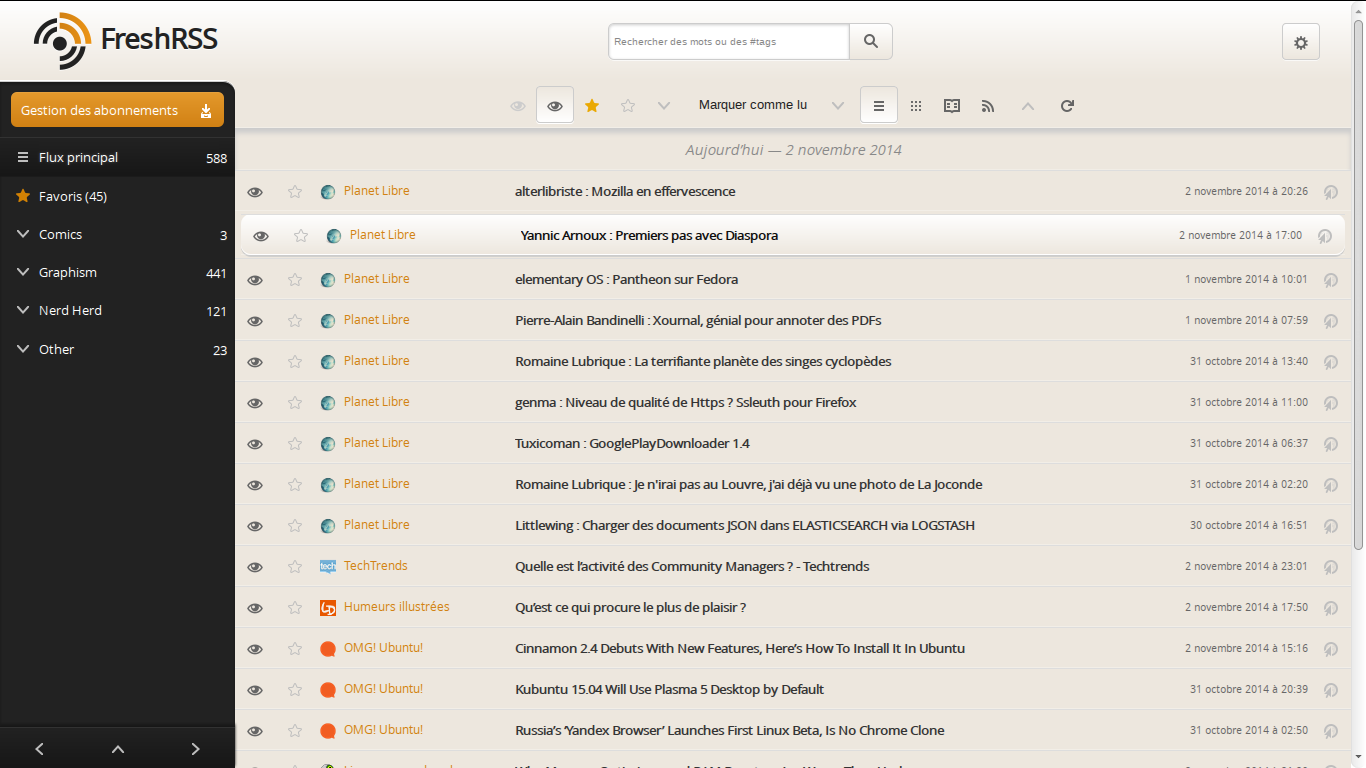
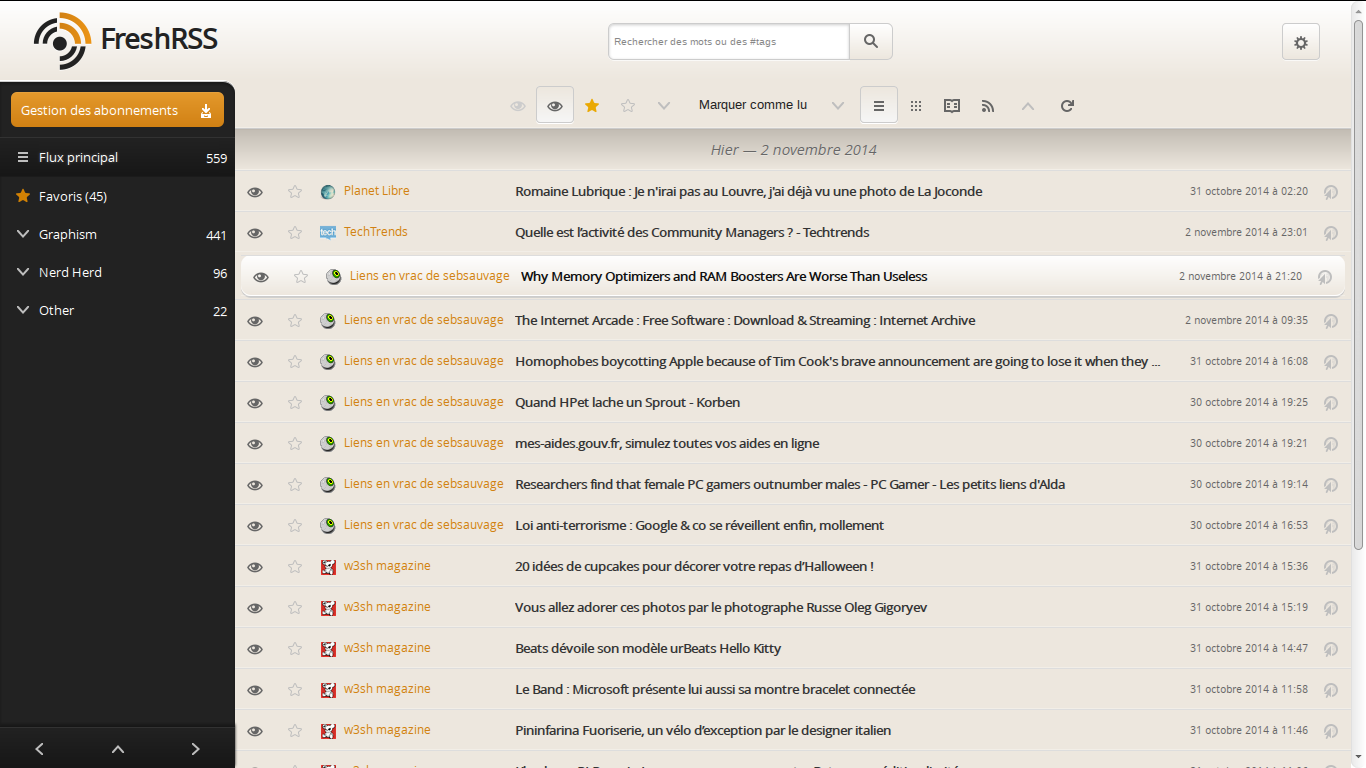
retouches cometiques finales ou presque

diff --git a/screwdriver.css b/screwdriver.css
@@ -194,8 +194,8 @@ a.btn {
 .nav_menu .btn.active, .nav_menu .btn:active, .nav_menu .dropdown-target:target ~ .btn.dropdown-toggle{
 	box-shadow: 0 1px #fff;
 	border-radius: 4px;
-	background: linear-gradient(180deg, #EDE7DE 0%, #FFF 100%) #EDE7DE;
-	background: -webkit-linear-gradient(top, #EDE7DE 0%, #FFF 100%);
+	background: linear-gradient(180deg, #EDE7DE 0%, #F6F6F6 100%) #EDE7DE;
+	background: -webkit-linear-gradient(top, #EDE7DE 0%, #F6F6F6 100%);
 	border: solid 1px #ccc;
 }
 .nav_menu .btn {
@@ -717,8 +717,11 @@ a.btn {
 	padding: 0 10px;
 	font-style:italic;
 	line-height: 3em;
-	box-shadow: 0 4px 4px #CCC inset, 0 -1px rgba(255,255,255,0.28) inset;
-	color: #888;
+	box-shadow: 0 1px #BDB7AE inset, 0 -1px rgba(255,255,255,0.28) inset;
+	background: linear-gradient(0deg, #EDE7DE 0%, #C2BCB3 100%) #EDE7DE;
+    background: -webkit-linear-gradient(bottom, #C2BCB3 0%, #FFF 100%);
+	color: #666;
+	text-shadow: 0 1px rgba(255,255,255,0.28);
 	text-align: center;
 }
 #new-article + .day {
@@ -735,6 +738,22 @@ a.btn {
 	box-shadow:0 -1px rgba(255, 255, 255, 0.28) inset;
 	text-align: center;
 	padding: 5px 0;
+}
+#panel >.nav_menu{
+	background: linear-gradient(0deg, #EDE7DE 0%, #FFF 100%) #EDE7DE;
+    background: -webkit-linear-gradient(bottom, #EDE7DE 0%, #FFF 100%);
+}
+#panel > .nav_menu > #nav_menu_read_all{
+	background: linear-gradient(0deg, #EDE7DE 0%, #FFF 100%) #EDE7DE;
+    background: -webkit-linear-gradient(bottom, #EDE7DE 0%, #FFF 100%);
+	border-radius: 4px;
+	border: 1px solid #CCC;
+	box-shadow: 0px 1px #FFF;
+}
+#panel > .nav_menu > #nav_menu_read_all > .dropdown > .btn.dropdown-toggle{
+	border-radius: 0 4px 4px 0;
+	border:none;
+	border-left: solid 1px #ccc;
 }
 
 /*=== Feed articles */
@@ -943,7 +962,7 @@ opacity: 1;
 /*================*/
 #stream.global {
 	padding: 24px 0;
-	box-shadow: 0px 8px 8px #CCC inset;
+	box-shadow: 0px 8px 8px #C2BCB3 inset;
 }
 
 .box.category .box-title {
@@ -989,6 +1008,7 @@ opacity: 1;
 #panel {
 	box-shadow: 0px 0px 4px #000;
 	border-radius: 8px;
+	background:#EDE7DE;
 }
 /*=== DIVERS */
 /*===========*/
@@ -1067,6 +1087,14 @@ opacity: 1;
 .log.debug {
 	background: #333;
 	color: #eee;
+}
+
+#slider.active {
+    box-shadow: -4px 0 4px rgba(15, 15, 15, 0.55);
+    background: #F8F8F8;
+}
+#close-slider.active {
+    background: rgba(15, 15, 15, 0.35);
 }
 
 /*=== MOBILE */
